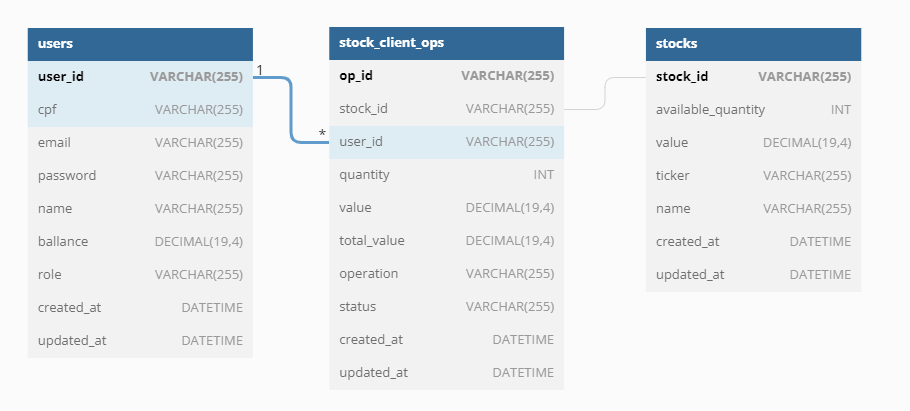
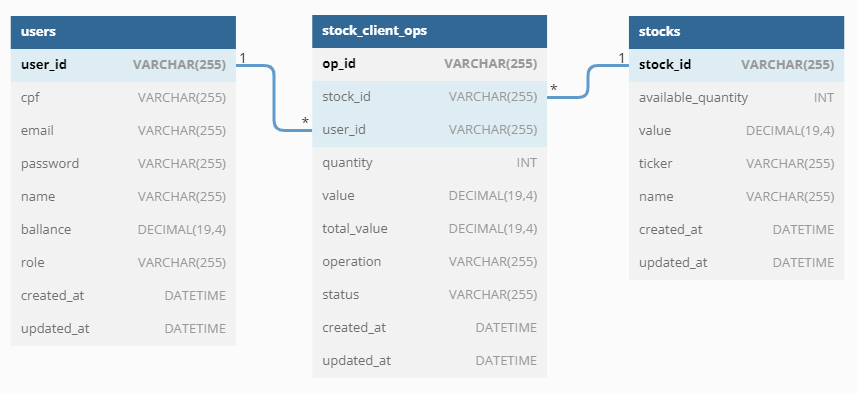
docs: :memo: update readme

diff --git a/README.md b/README.md
@@ -157,6 +157,8 @@ Configurações do Heroku:
 
 ![Deploy](src/images/Deploy.png)
 
+Diagrama gerado no [https://dbdiagram.io/](https://dbdiagram.io/)
+
 ## Stack utilizada
 
 **Back-end:** Node, Express, Docker, Docker-Compose, JWT, MySQL, Swagger, Swagger-jsdoc.
@@ -167,11 +169,11 @@ Configurações do Heroku:
 
 Durante a primeira etapa deste projeto, abri o home brooker da XP de uma forma diferente, buscando entender como cada parte funcionava do ponto de vista de código.
 
-Minha primeira grande dificuldade foi modelar o banco de dados (e remodelei algumas vezes, talvez mais de uma dezenha de vezes). Detalhes como qual tipo de dado devo utilizar para os campos de saldo, preço etc nunca havia pesquisado.
+Minha primeira grande dificuldade foi modelar o banco de dados (e remodelei algumas vezes, talvez mais de uma dezenha de vezes). Detalhes como qual tipo de dado devo utilizar para os campos de saldo, preço etc nunca havia pesquisado. Pensar nas regras de negócio, como impactavam no banco etc.
+
+As validações também foram desenvolvidas ao londo de toda a aplicação e sempre pensava em algum detalhe que poderia melhorar ao longo do desenvolvimento.
 
 Ao elaborar os testes e ao elaborar a documentação em Swagger, o efeito colateral foram diversas refatorações do código.
-
-
 
 ## Melhorias Futuras
 
@@ -201,5 +203,5 @@ Se você tiver algum feedback, dúvida ou sugestão, entre em contato via linked
 
 ## Autor
 
-- [@paolofullone](https://www.github.com/in/paolofullone)
+- [Paolo Fullone](https://www.github.com/in/paolofullone)
 
